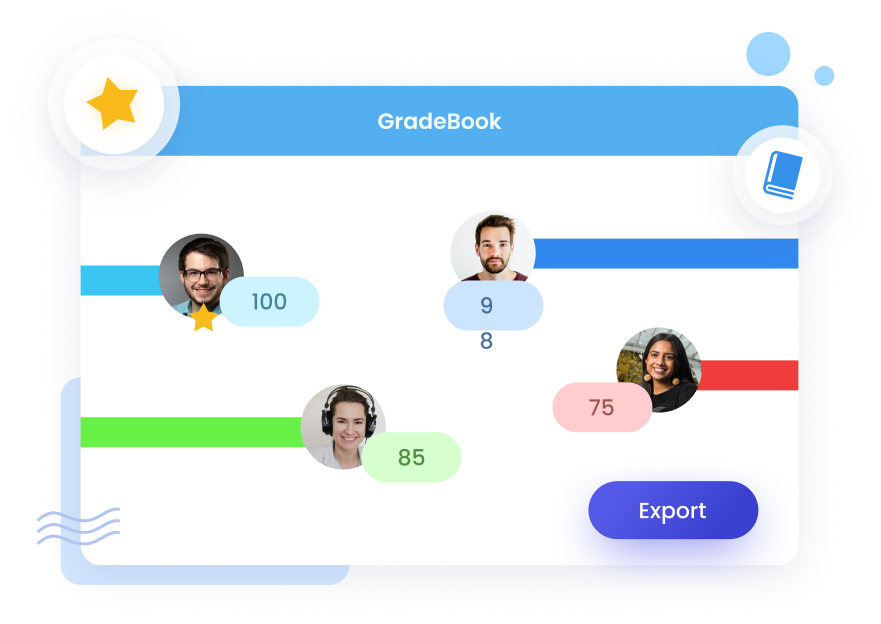
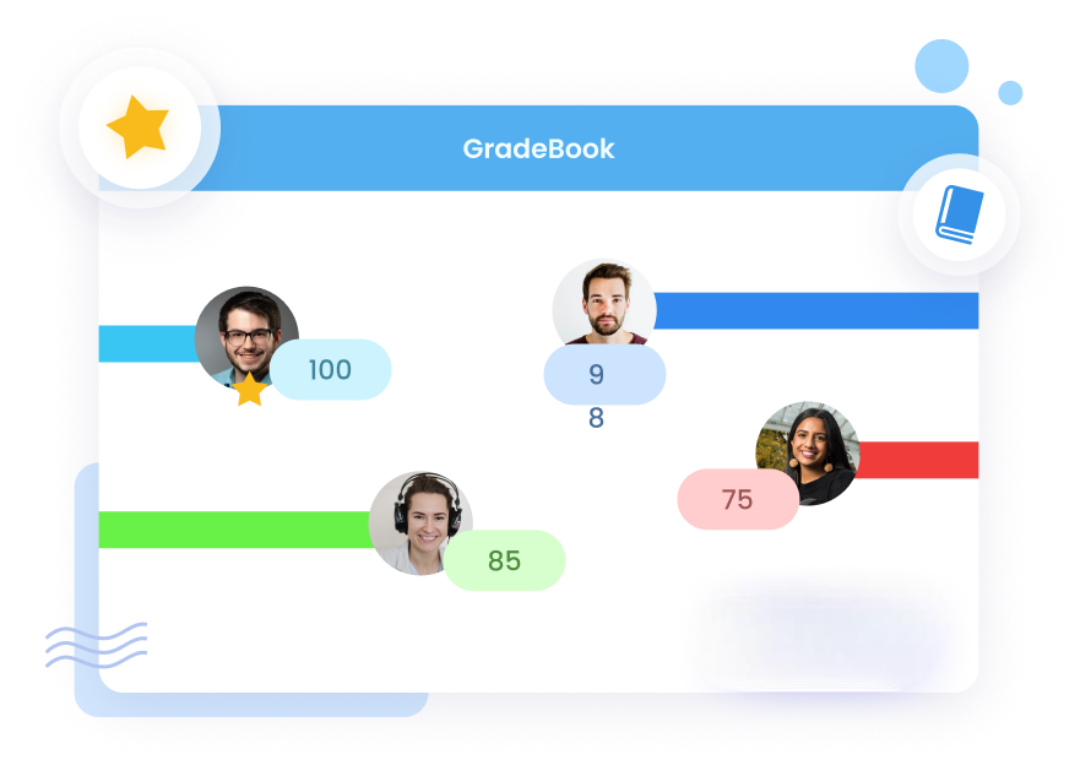
extra changes made in a code

diff --git a/style.css b/style.css
@@ -557,7 +557,7 @@ body {
   }
 
   .media-frame-bg {
-    max-width: 100%;
+    max-width: 90%;
     aspect-ratio: 16 / 9;
   }
 
@@ -766,6 +766,7 @@ body {
 /* SCREEN7 */
 .assessment-section {
   padding: 60px 20px 0px 20px;
+  overflow: hidden;
 }
 .assessment-container {
   display: flex;
@@ -925,7 +926,7 @@ body {
   }
 
   .question-card {
-    width: 100%;
+    width: 90%;
     max-width: 320px;
     height: auto;
     flex: none;
@@ -966,11 +967,15 @@ body {
     position: relative;
   }
 
-  .icon-correct img,
-  .icon-wrong img {
+  .icon-correct img{
     width: 60px;
     top: -10px;
     right: -10px;
+  }
+   .icon-wrong img{
+    width: 60px;
+    top: -30px;
+    right: 9px;
   }
 }
 
@@ -1006,7 +1011,7 @@ body {
 }
 
 .gradebook-ui {
-  padding: 20px 30px;
+  padding: 20px 30px 20px 0px;
   width: 380px;
   position: relative;
   overflow: hidden;
